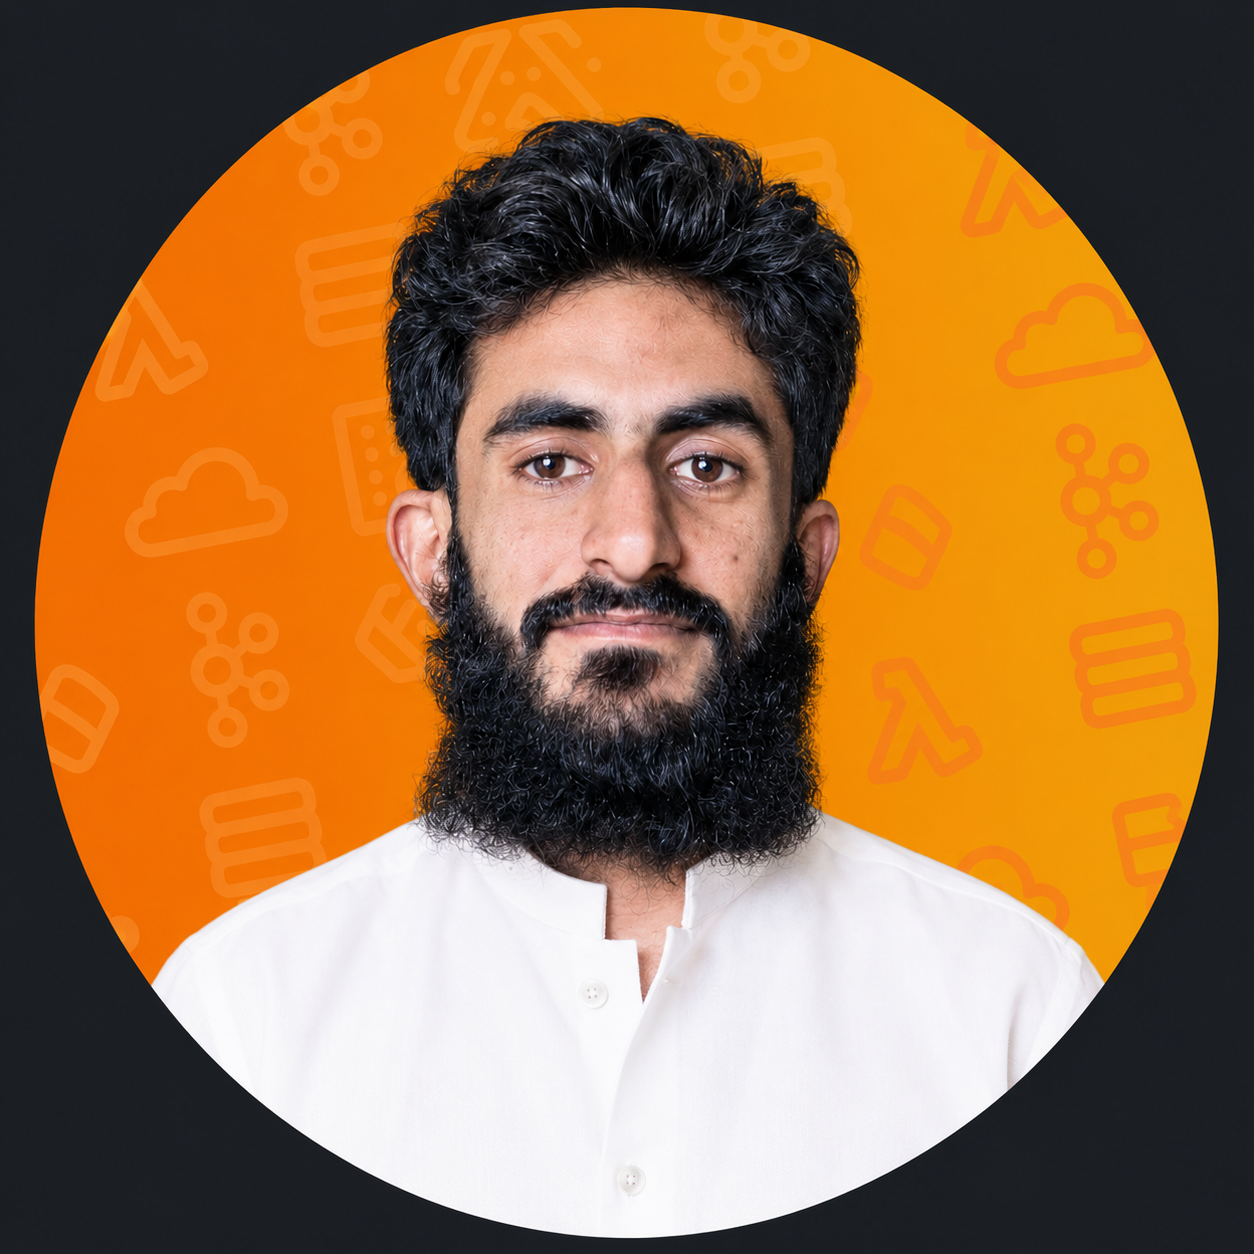
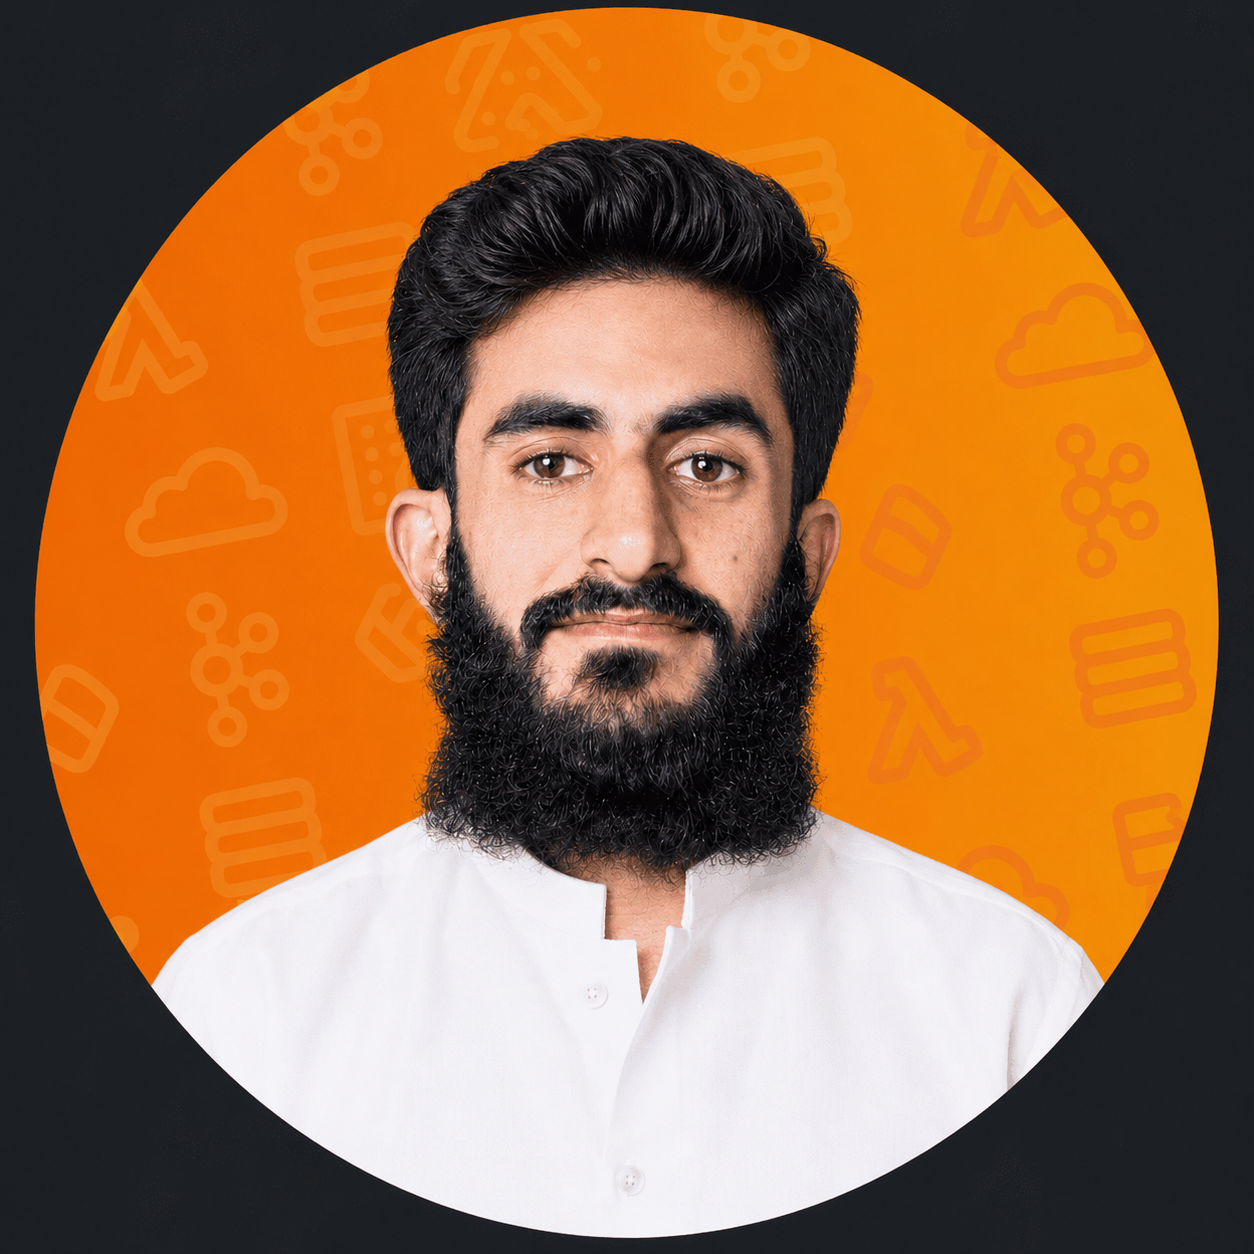
Update LinkedIn contact: show name label, link to full profile URL
- Display "Malik Kashif Abbas" in the Contact LinkedIn row instead of the raw URL path
- Store the full LinkedIn profile share URL in lib/data.ts
- Remove now-unused pathFromUrl helper

Changed region(s): [[0.2799, 0.0933, 0.7153, 0.7153]]

diff --git a/components/Contact.tsx b/components/Contact.tsx
@@ -36,16 +36,6 @@ function gmailComposeUrl(to: string, subject = "", body = ""): string {
   return `https://mail.google.com/mail/?${params.toString()}`;
 }
 
-// Pull a clean display string from any URL (linkedin.com/in/handle/ → /in/handle)
-function pathFromUrl(url: string): string {
-  try {
-    const u = new URL(ensureHttps(url));
-    return (u.pathname.replace(/\/+$/, "") || u.hostname).slice(0, 36);
-  } catch {
-    return url;
-  }
-}
-
 // GitHub handle from full URL (https://github.com/user → @user)
 function githubHandle(url: string): string {
   const last = url.replace(/\/+$/, "").split("/").pop();
@@ -164,7 +154,7 @@ export default function Contact() {
               <ContactRow
                 icon={<Linkedin size={18} />}
                 label="LINKEDIN"
-                value={pathFromUrl(personal.linkedin)}
+                value={personal.name}
                 href={ensureHttps(personal.linkedin)}
               />
               <ContactRow

diff --git a/lib/data.ts b/lib/data.ts
@@ -25,7 +25,7 @@ export const personal = {
   description:
     "I don't just write features — I think about system design, performance, scalability, and developer experience. Currently shipping production apps at QuantumStack.",
   email: "malikkashifabbas28@gmail.com",
-  linkedin: "https://www.linkedin.com/in/malik-kashif-abbas-44980a411/",
+  linkedin: "https://www.linkedin.com/in/malik-kashif-abbas-52bab13a6?utm_source=share_via&utm_content=profile&utm_medium=member_android",
   github: "https://github.com/malikkashifabbas",
   resumeUrl: "/resume.pdf",
   stats: {
